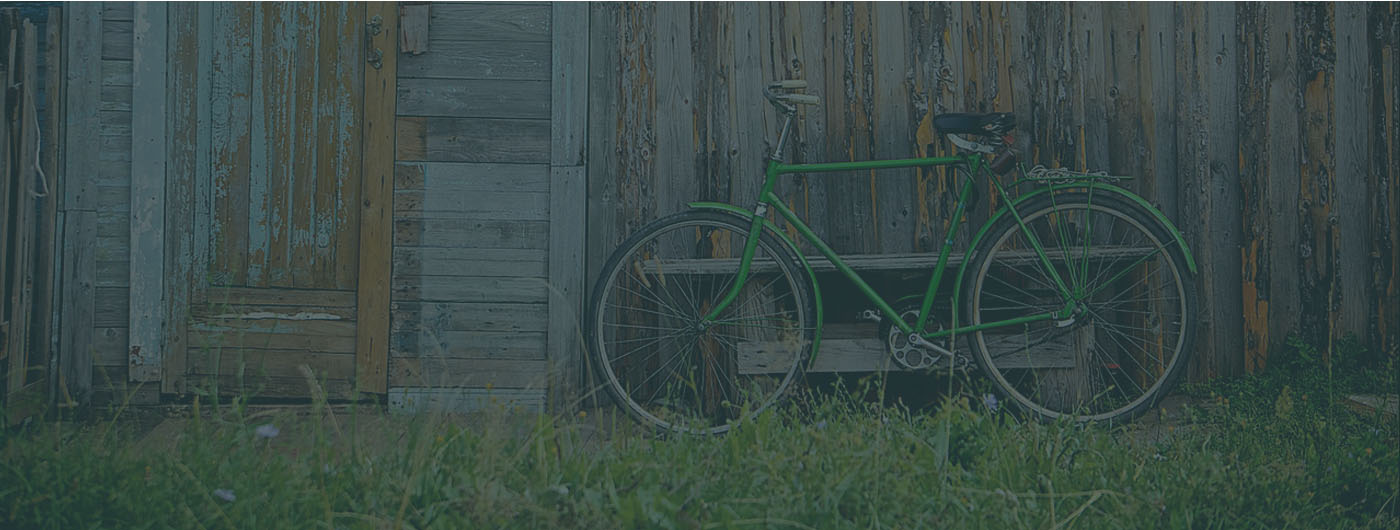
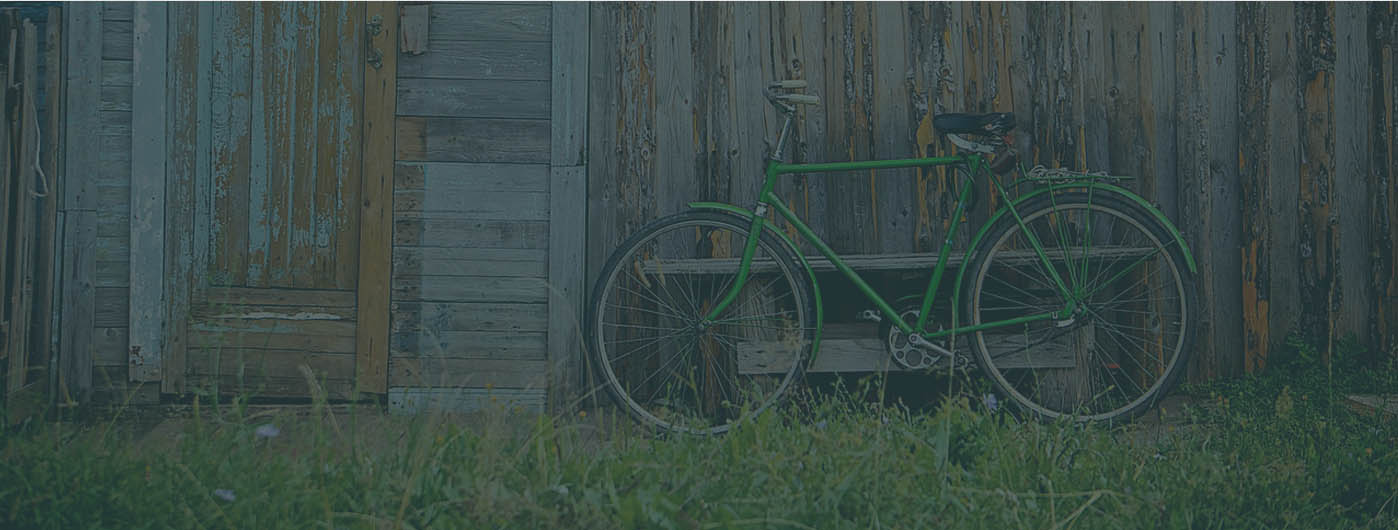
add progresive jpeg

diff --git a/sport-rent-equipment/src/main/resources/public/resources/registration-authorization.css b/sport-rent-equipment/src/main/resources/public/resources/registration-authorization.css
@@ -7,7 +7,7 @@ body{
 height: 100%;
 width: 100%;
 background-color: #e3e3e3;
-background-image: url('images/reg-bk.png');
+background-image: url('images/reg-bk.jpg');
 }
 
 .background-line{
